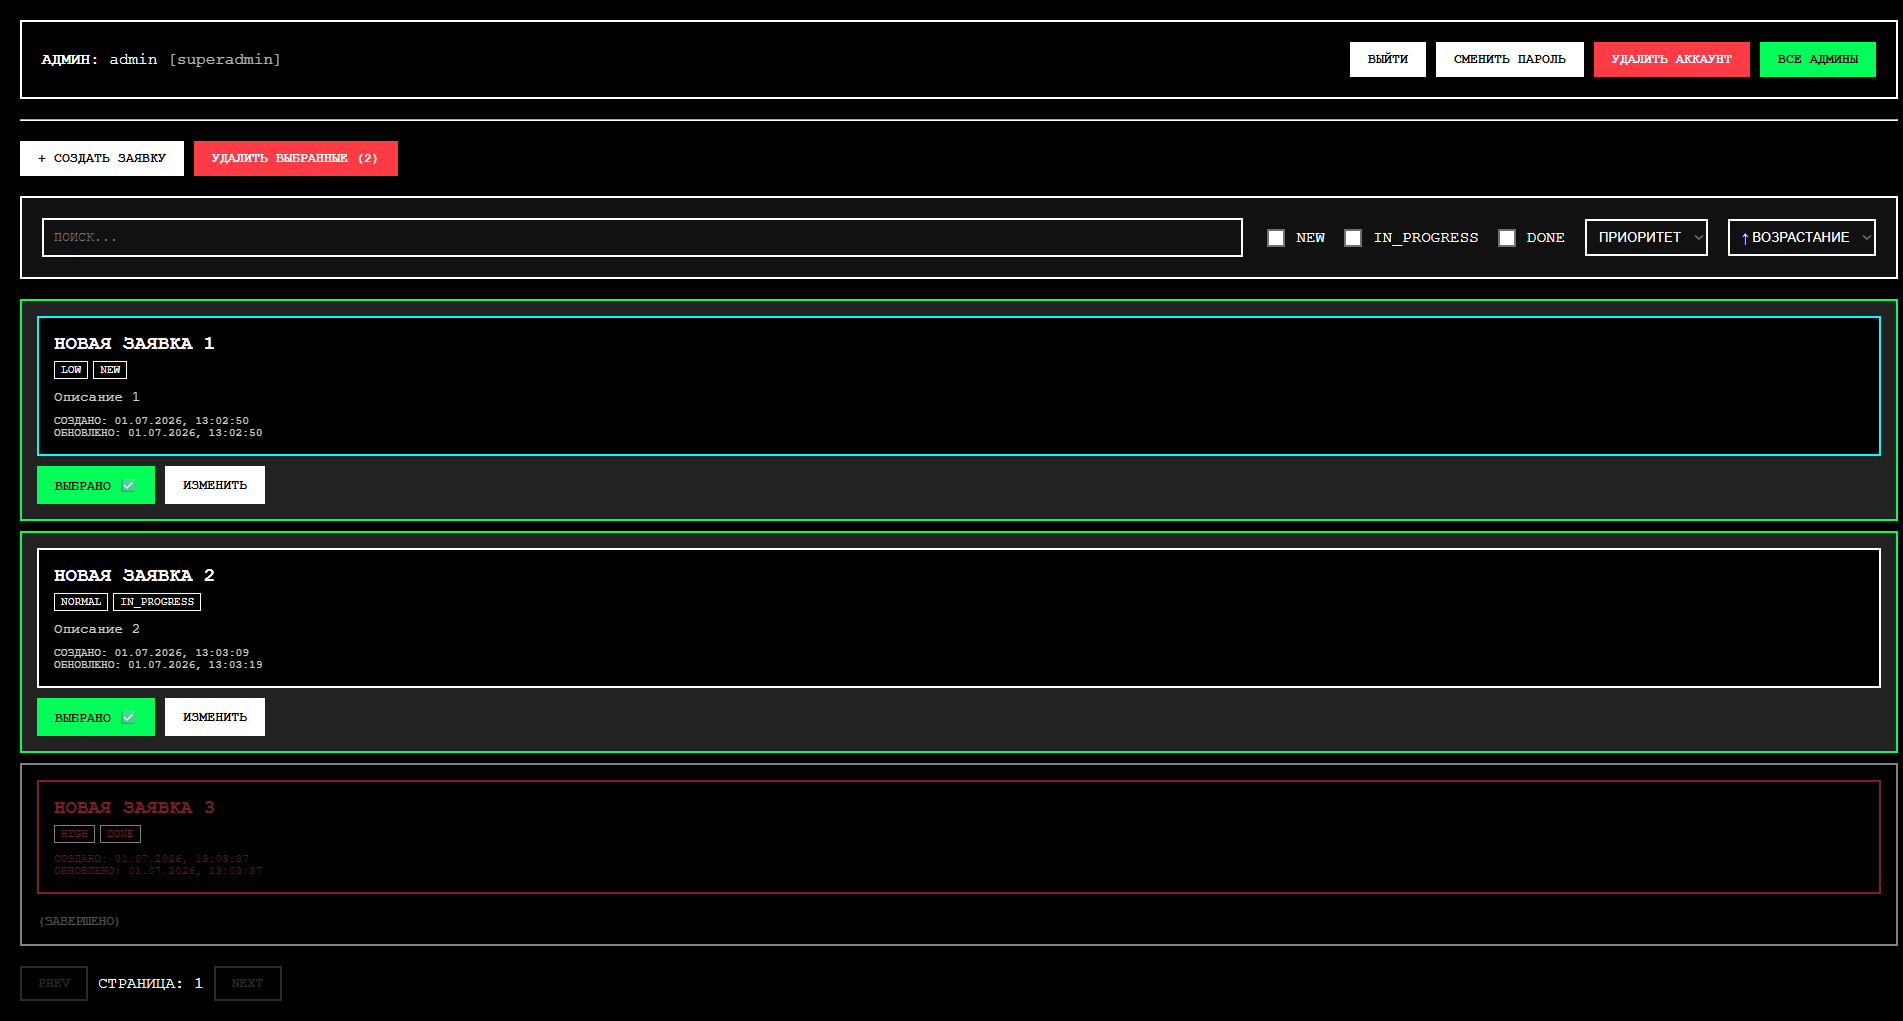
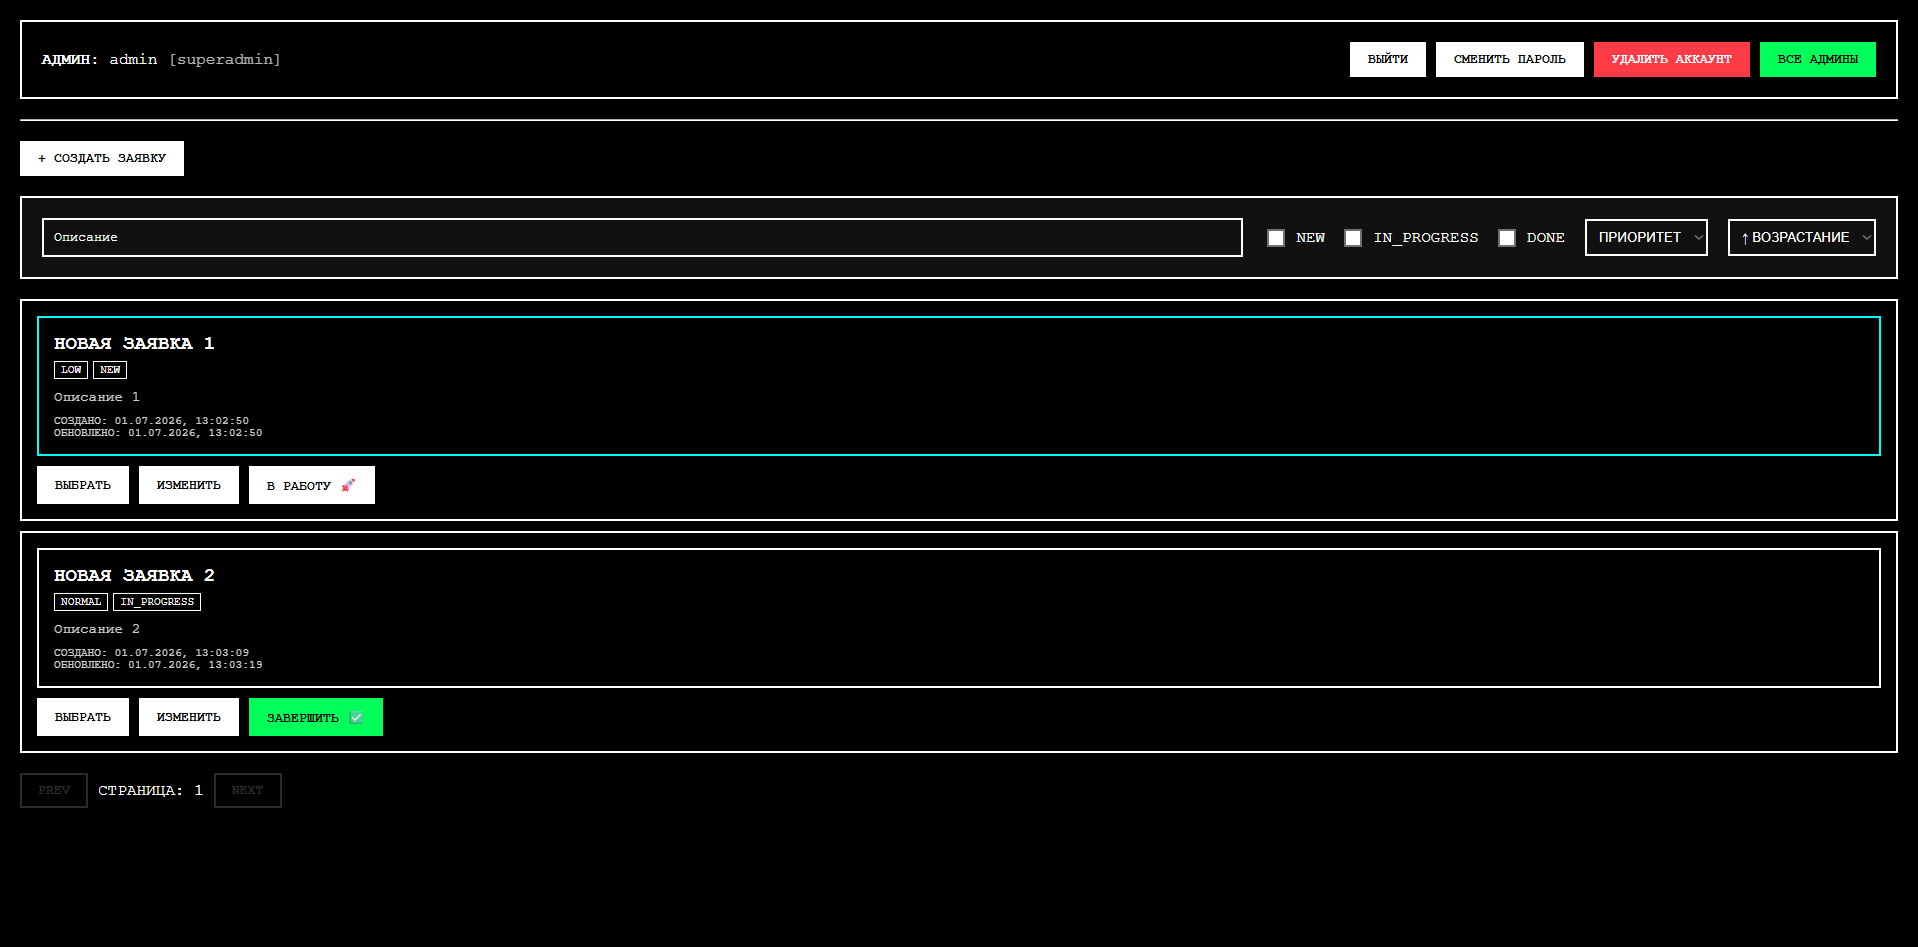
final commit

Changed region(s): [[0.0, 0.0, 1.0, 0.9799]]

diff --git a/frontend/src/features/applications/ApplicationForm.tsx b/frontend/src/features/applications/ApplicationForm.tsx
@@ -23,7 +23,6 @@ export const ApplicationForm = ({ initialData, onSubmit, onCancel, error }: Prop
       setLocalError("ДЛИНА ЗАГОЛОВКА ДОЛЖНА БЫТЬ ОТ 3 ДО 120 СИМВОЛОВ");
       return;
     }
-    
     setLocalError(null);
     onSubmit(form);
   };
@@ -39,9 +38,9 @@ export const ApplicationForm = ({ initialData, onSubmit, onCancel, error }: Prop
         </h2>
 
         {(error || localError) && (
-          <div style={{ color: 'var(--accent-red)', marginBottom: '15px', fontWeight: 'bold' }}>
+          <p style={{ color: 'var(--accent-red)', marginBottom: '15px', fontWeight: 'bold' }}>
             {error || localError}
-          </div>
+          </p>
         )}
 
         <div className="form-group">
@@ -59,24 +58,26 @@ export const ApplicationForm = ({ initialData, onSubmit, onCancel, error }: Prop
             onChange={e => setForm({...form, description: e.target.value})} 
             style={{ 
               background: 'transparent', border: '2px solid white', color: 'white', 
-              padding: '10px', height: '100px', resize: 'none', fontFamily: 'inherit' 
+              padding: '10px', height: '100px', resize: 'none', fontFamily: 'inherit', width: '100%' 
             }}
           />
 
-          <select 
-            value={form.status} 
-            onChange={e => setForm({...form, status: e.target.value as any})}
-            style={{ background: 'black', color: 'white', padding: '10px', border: '2px solid white' }}
-          >
-            <option value="new">NEW</option>
-            <option value="in_progress">IN PROGRESS</option>
-            <option value="done">DONE</option>
-          </select>
+          {!initialData && (
+            <select 
+              value={form.status} 
+              onChange={e => setForm({...form, status: e.target.value as any})}
+              style={{ background: 'black', color: 'white', padding: '10px', border: '2px solid white', width: '100%' }}
+            >
+              <option value="new">NEW</option>
+              <option value="in_progress">IN PROGRESS</option>
+              <option value="done">DONE</option>
+            </select>
+          )}
 
           <select 
             value={form.priority} 
             onChange={e => setForm({...form, priority: e.target.value as any})}
-            style={{ background: 'black', color: 'white', padding: '10px', border: '2px solid white' }}
+            style={{ background: 'black', color: 'white', padding: '10px', border: '2px solid white', width: '100%' }}
           >
             <option value="low">LOW</option>
             <option value="normal">NORMAL</option>

diff --git a/frontend/src/features/applications/ApplicationList.tsx b/frontend/src/features/applications/ApplicationList.tsx
@@ -65,6 +65,16 @@ export const ApplicationList = () => {
     }
   };
 
+  const handleStatusChange = async (appId: string, newStatus: string) => {
+    try {
+      await applicationApi.update(appId, { status: newStatus });
+      queryClient.invalidateQueries({ queryKey: ['applications'] });
+      setFormError(null);
+    } catch (err: any) {
+      setFormError(err.response?.data?.detail || "Ошибка смены статуса");
+    }
+  };
+
   return (
     <div style={{ padding: '20px' }}>
       {admin ? <AdminPanel /> : <button className="btn-white" onClick={() => setShowLogin(true)}>ВХОД ДЛЯ АДМИНИСТРАТОРА</button>}
@@ -80,9 +90,9 @@ export const ApplicationList = () => {
       <hr style={{ margin: '20px 0', borderColor: 'white' }} />
 
       {formError && (
-        <div style={{ color: 'red', marginBottom: '20px', padding: '10px', border: '1px solid red' }}>
+        <p style={{ color: 'var(--accent-red)', marginBottom: '20px', padding: '10px', border: '1px solid var(--accent-red)', fontWeight: 'bold' }}>
           {formError}
-        </div>
+        </p>
       )}
 
       {(isCreating || editingApp) && (
@@ -117,7 +127,7 @@ export const ApplicationList = () => {
               <div key={app.id} className={`app-card ${isSelected ? 'selected' : ''} ${isDone ? 'done' : ''}`}>
                 <ApplicationItem app={app} />
                 
-                <div style={{ marginTop: '10px', display: 'flex', gap: '10px' }}>
+                <div style={{ marginTop: '10px', display: 'flex', gap: '10px', flexWrap: 'wrap' }}>
                   {admin && !isDone && (
                     <button className={isSelected ? 'btn-green' : 'btn-white'} onClick={() => toggleSelect(app.id)}>
                       {isSelected ? 'ВЫБРАНО ✅' : 'ВЫБРАТЬ'}
@@ -125,7 +135,15 @@ export const ApplicationList = () => {
                   )}
                   
                   {!isDone ? (
-                    <button className="btn-white" onClick={() => setEditingApp(app)}>ИЗМЕНИТЬ</button>
+                    <>
+                      <button className="btn-white" onClick={() => setEditingApp(app)}>ИЗМЕНИТЬ</button>
+                      {app.status === 'new' && (
+                        <button className="btn-white" onClick={() => handleStatusChange(app.id, 'in_progress')}>В РАБОТУ 🚀</button>
+                      )}
+                      {app.status === 'in_progress' && (
+                        <button className="btn-green" onClick={() => handleStatusChange(app.id, 'done')}>ЗАВЕРШИТЬ ✅</button>
+                      )}
+                    </>
                   ) : (
                     <span style={{ fontSize: '0.8em', opacity: 0.6, marginTop: '10px' }}>(ЗАВЕРШЕНО)</span>
                   )}

diff --git a/backend/src/features/application/service.py b/backend/src/features/application/service.py
@@ -6,8 +6,16 @@ from .repositories import ApplicationRepository
 from .schemas import ApplicationSchema
 from .exceptions import (
     ApplicationNotFoundException,
-    CantTouchDoneApplicationException
+    CantTouchDoneApplicationException,
+    CantSetStatusLess
 )
+
+
+statuses = {
+    StatusType.NEW: 1,
+    StatusType.IN_PROGRESS: 2,
+    StatusType.DONE: 3
+}
 
 
 class ApplicationService:
@@ -50,10 +58,10 @@ class ApplicationService:
     async def update_application(
             self, 
             application_id: str, 
-            title: str | None, 
-            description: str | None, 
-            status: StatusType | None, 
-            priority: PriorityType | None
+            title: str | None = None, 
+            description: str | None = None, 
+            status: StatusType | None = None, 
+            priority: PriorityType | None = None
     ) -> ApplicationSchema:
         application = await self.application_repo.get(id=application_id)
         if not application:
@@ -65,6 +73,8 @@ class ApplicationService:
         if description is not None:
             application.description = description
         if status is not None:
+            if statuses[application.status] > statuses[status]:
+                raise CantSetStatusLess()
             application.status = status
         if priority is not None:
             application.priority = priority

diff --git a/backend/src/features/application/handlers.py b/backend/src/features/application/handlers.py
@@ -1,11 +1,15 @@
 from fastapi import FastAPI, Request, status
 from fastapi.responses import JSONResponse
-from .exceptions import *
+from .exceptions import (
+    ApplicationNotFoundException,
+    CantTouchDoneApplicationException,
+    CantSetStatusLess
+)
 
 
 def register_application_exception_handlers(app: FastAPI):
     @app.exception_handler(ApplicationNotFoundException)
-    async def admin_already_exists_handler(request: Request, exc: ApplicationNotFoundException):
+    async def application_not_found_handler(request: Request, exc: ApplicationNotFoundException):
         return JSONResponse(
             status_code=status.HTTP_400_BAD_REQUEST,
             content={"detail": "Такой заявки не существует"}
@@ -15,4 +19,10 @@ def register_application_exception_handlers(app: FastAPI):
         return JSONResponse(
             status_code=status.HTTP_400_BAD_REQUEST,
             content={"detail": "Вы не можете изменять / удалять заявку с статусом DONE"}
+        )
+    @app.exception_handler(CantSetStatusLess)
+    async def cant_touch_done_application_handler(request: Request, exc: CantSetStatusLess):
+        return JSONResponse(
+            status_code=status.HTTP_400_BAD_REQUEST,
+            content={"detail": "Недопустимый статус для изменения"}
         )

diff --git a/backend/src/features/application/exceptions.py b/backend/src/features/application/exceptions.py
@@ -6,3 +6,6 @@ class ApplicationNotFoundException(ApplicationException):
 
 class CantTouchDoneApplicationException(ApplicationException):
     ...
+
+class CantSetStatusLess(ApplicationException):
+    ...